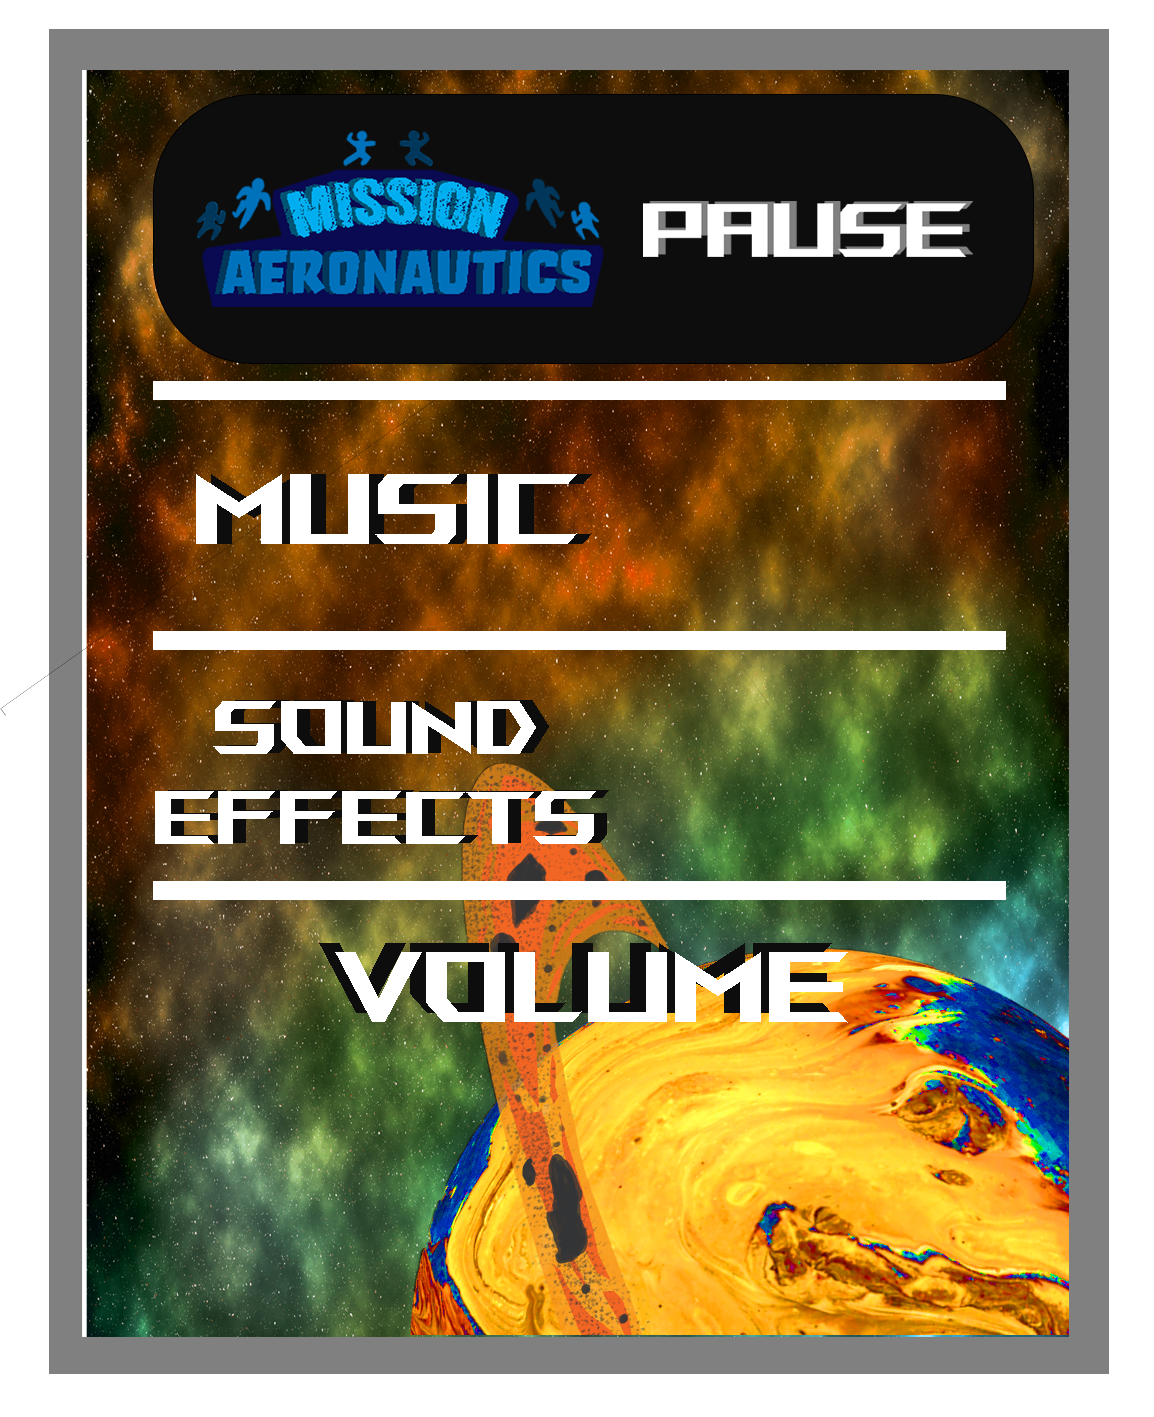
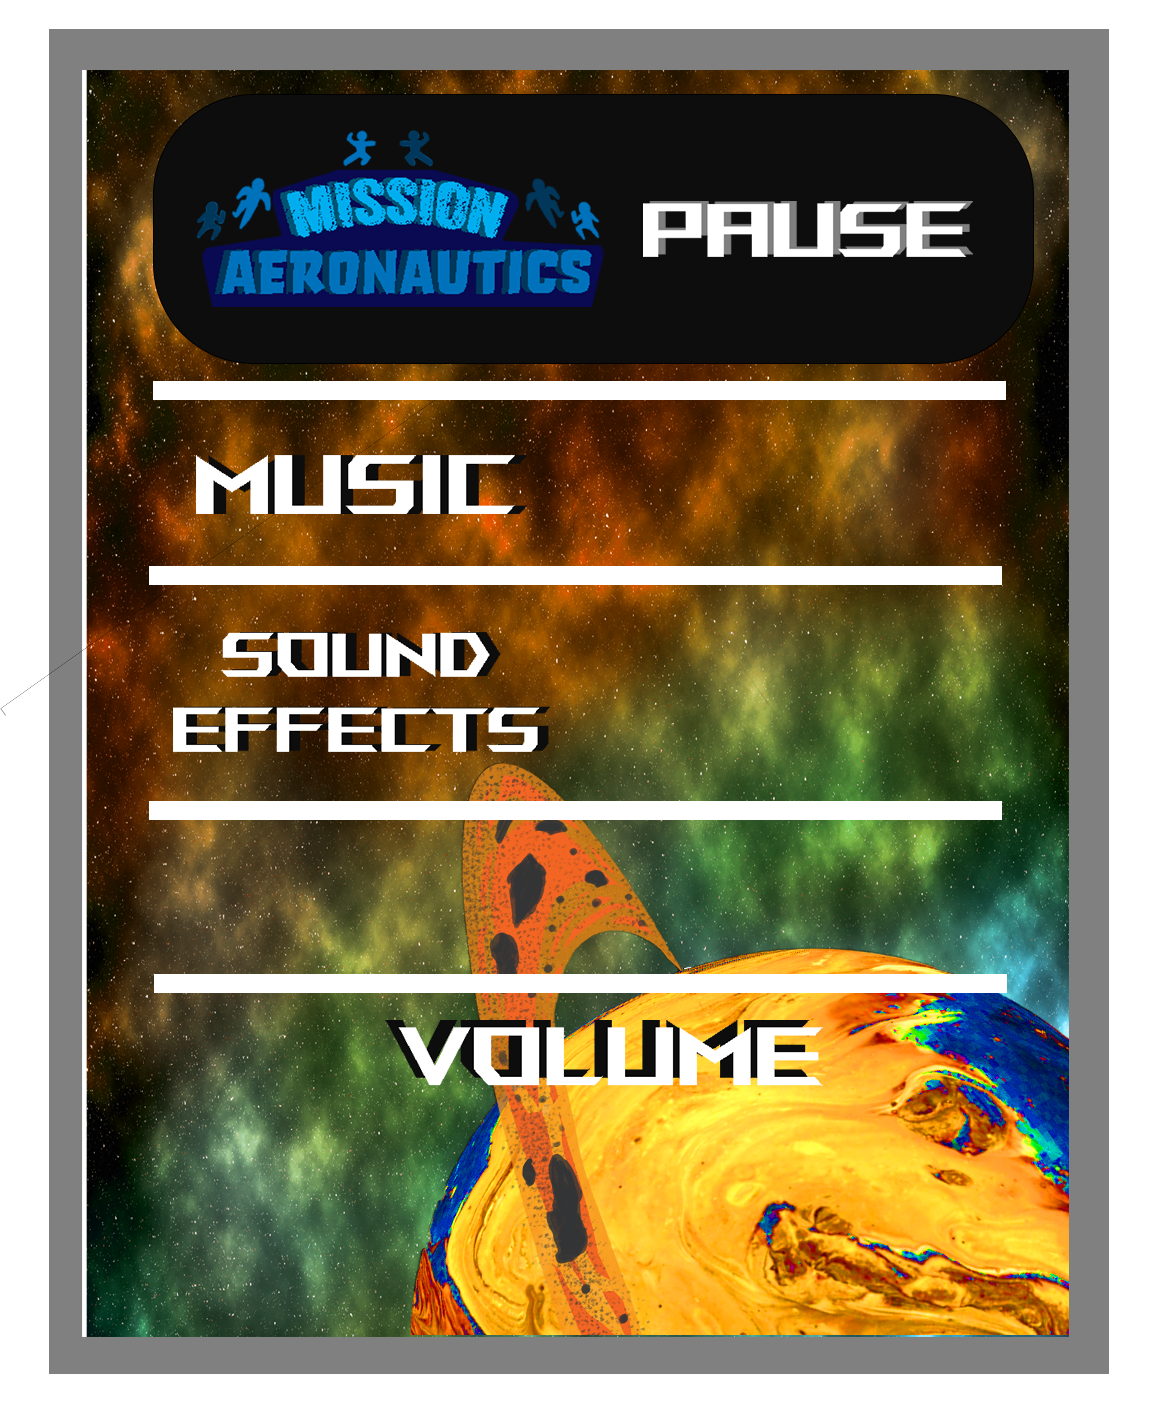
Added new Pause menu

Changed region(s): [[0.1248, 0.3105, 0.8735, 0.7763]]

diff --git a/Assets/Script/UI/Buttons.cs b/Assets/Script/UI/Buttons.cs
@@ -14,12 +14,13 @@ public class Buttons : MonoBehaviour
         Time.timeScale = 1.0f;
         StopAllCoroutines();
         SceneManager.LoadScene("TitleScreen");
-
+        
     }
 
     public void BackToSelection() 
     {
         SceneManager.LoadScene("ChooseCharacter");
+       
     }
 
    
@@ -29,7 +30,7 @@ public class Buttons : MonoBehaviour
     {
         SceneManager.LoadScene("ChooseCharacter");
         Time.timeScale = 1.0f;
-
+      
         playerData.levelTwoActive = true;
         playerData.levelThreeActive = true;
         playerData.levelFourActive = false;
@@ -50,12 +51,13 @@ public class Buttons : MonoBehaviour
             SceneManager.LoadScene("Tut");
             Time.timeScale = 1.0f;
             LevelPick.LevelChossen = 0;
-
+           
         }
         else
         {
             SceneManager.LoadScene("Levels");
             Time.timeScale = 1.0f;
+           
         }
        
 
@@ -68,11 +70,13 @@ public class Buttons : MonoBehaviour
             SceneManager.LoadScene("Tut");
             Time.timeScale = 1.0f;
             LevelPick.LevelChossen = 0;
+            
         }
         else
         {
             SceneManager.LoadScene("Levels");
             Time.timeScale = 1.0f;
+           
         }
        
     }
@@ -84,12 +88,14 @@ public class Buttons : MonoBehaviour
             SceneManager.LoadScene("Tut");
             Time.timeScale = 1.0f;
             LevelPick.LevelChossen = 0;
+            
 
         }
         else
         {
             SceneManager.LoadScene("Levels");
             Time.timeScale = 1.0f;
+           
         }
 
     }
@@ -101,12 +107,14 @@ public class Buttons : MonoBehaviour
             SceneManager.LoadScene("Tut");
             Time.timeScale = 1.0f;
             LevelPick.LevelChossen = 0;
+           
 
         }
         else
         {
             SceneManager.LoadScene("Levels");
             Time.timeScale = 1.0f;
+           
         }
 
     }

diff --git a/Assets/Script/UI/PauseScreenButtons.cs b/Assets/Script/UI/PauseScreenButtons.cs
@@ -11,40 +11,43 @@ public class PauseScreenButtons : MonoBehaviour
     [SerializeField] private UnityEngine.UI.Toggle[] toggles;
     [SerializeField] private GameObject[] Target;
     private UnityEngine.UI.Image image;
-    private AudioSource audioSource;
+    [SerializeField] private AudioSource[] audioSource;
 
     [SerializeField] private Sprite[] offOn;
     public void MusicToggle()
     {
-        audioSource = this.GetComponent<AudioSource>();
+       
         var Switch = toggles[0];
         image = Target[0].GetComponent<UnityEngine.UI.Image>();
        
         if (Switch.isOn == false)
         {
-            audioSource.enabled = false;
+            audioSource[0].enabled = false;
             image.sprite = offOn[0];
         }
         else
         {
-            audioSource.enabled = true;
-            audioSource.Play();
+            audioSource[0].enabled = true;
+            audioSource[0].Play();
             image.sprite = offOn[1];
         }
     }
     public void SFXToggle()
     {
-        audioSource = this.GetComponent<AudioSource>();
         var Switch = toggles[1];
         image = Target[1].GetComponent<UnityEngine.UI.Image>();
 
         if (Switch.isOn == false)
         {
             image.sprite = offOn[0];
+            audioSource[1].enabled = false;
+            audioSource[2].enabled = false;
+
         }
         else
         {
-
+            audioSource[1].enabled = true;
+            audioSource[2].enabled = true;
             image.sprite = offOn[1];
         }
 

diff --git a/Assets/Script/Game/Level Pick.cs b/Assets/Script/Game/Level Pick.cs
@@ -28,6 +28,7 @@ public class LevelPick : MonoBehaviour
 
     private void Start()
     {
+
         playerData = new PlayerData();
         json = System.IO.File.ReadAllText(Application.persistentDataPath + "/savefile.json");
         loadedData = JsonUtility.FromJson<PlayerData>(json);
